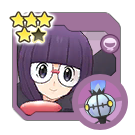
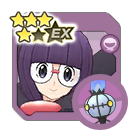
Add v2.37.0

Changed region(s): [[0.2963, 0.0889, 0.5926, 0.3556], [0.2963, 0.0889, 0.3259, 0.1185]]

diff --git a/js/syncpairs.js b/js/syncpairs.js
@@ -1415,6 +1415,42 @@ export const SYNCPAIRS = [
 			"Rock Lover"
 		],
 		"tags": [
+			"isWoman",
+			"Multiple Units"
+		]
+	},
+	{
+		"dexNumber": "019",
+		"trainerName": "Roxanne",
+		"trainerAlt": "Fall 2023",
+		"pokemonNumber": "0867",
+		"pokemonName": "Runerigus",
+		"pokemonGender": "♀",
+		"pokemonForm": [],
+		"pokemonType": "Ground",
+		"pokemonWeak": "Ghost",
+		"syncPairRole": "Tech",
+		"syncPairRoleEX": "Strike (Physical)",
+		"syncPairRarity": "5",
+		"releaseDate": "2023-10-14",
+		"syncPairAcquisition": "Seasonal Scout",
+		"syncPairRegion": "Hoenn",
+		"images": [
+			"Sync Pairs/0Y_SEASONALS/Roxanne_0867.png",
+			"Sync Pairs/0Y_SEASONALS/Roxanne_0867_EX.png"
+		],
+		"themes": [
+			"Ground",
+			"Hoenn",
+			"Gym Leader",
+			"Seasonal Outfit",
+			"Rock Lover"
+		],
+		"tags": [
+			"Fall",
+			"Buddy Move",
+			"Limited",
+			"Multiple Units",
 			"isWoman"
 		]
 	},
@@ -1716,6 +1752,41 @@ export const SYNCPAIRS = [
 			"Free Spirit"
 		],
 		"tags": [
+			"isWoman",
+			"Multiple Units"
+		]
+	},
+	{
+		"dexNumber": "026",
+		"trainerName": "Phoebe",
+		"trainerAlt": "Fall 2023",
+		"pokemonNumber": "0563",
+		"pokemonName": "Cofagrigus",
+		"pokemonGender": "♀",
+		"pokemonForm": [],
+		"pokemonType": "Ghost",
+		"pokemonWeak": "Dark",
+		"syncPairRole": "Support",
+		"syncPairRoleEX": "Tech",
+		"syncPairRarity": "5",
+		"releaseDate": "2023-10-12",
+		"syncPairAcquisition": "Seasonal Scout",
+		"syncPairRegion": "Hoenn",
+		"images": [
+			"Sync Pairs/0Y_SEASONALS/Phoebe_0563.png",
+			"Sync Pairs/0Y_SEASONALS/Phoebe_0563_EX.png"
+		],
+		"themes": [
+			"Ghost",
+			"Hoenn",
+			"Elite Four",
+			"Seasonal Outfit",
+			"Supernatural"
+		],
+		"tags": [
+			"Fall",
+			"Limited",
+			"Multiple Units",
 			"isWoman"
 		]
 	},
@@ -1780,6 +1851,40 @@ export const SYNCPAIRS = [
 			"Knowledgeable"
 		],
 		"tags": [
+			"isMan",
+			"Multiple Units"
+		]
+	},
+	{
+		"dexNumber": "028",
+		"trainerName": "Noland",
+		"trainerAlt": "",
+		"pokemonNumber": "0291",
+		"pokemonName": "Ninjask",
+		"pokemonGender": "♂",
+		"pokemonForm": [],
+		"pokemonType": "Bug",
+		"pokemonWeak": "Electric",
+		"syncPairRole": "Sprint",
+		"syncPairRoleEX": "Strike",
+		"syncPairRarity": "5",
+		"releaseDate": "2023-10-07",
+		"syncPairAcquisition": "Variety Scout",
+		"syncPairRegion": "Hoenn",
+		"images": [
+			"Sync Pairs/0C_HOENN/Noland_0291.png",
+			"Sync Pairs/0C_HOENN/Noland_0291_EX.png"
+		],
+		"themes": [
+			"Bug",
+			"Hoenn",
+			"Battle Facility Foe",
+			"Knowledgeable"
+		],
+		"tags": [
+			"Buddy Move",
+			"Limited",
+			"Multiple Units",
 			"isMan"
 		]
 	},
@@ -2118,7 +2223,42 @@ export const SYNCPAIRS = [
 			"Gadgeteer"
 		],
 		"tags": [
-			"isMan"
+			"isMan",
+			"Multiple Units"
+		]
+	},
+	{
+		"dexNumber": "036",
+		"trainerName": "Thorton",
+		"trainerAlt": "",
+		"pokemonNumber": "0462",
+		"pokemonName": "Magnezone",
+		"pokemonGender": "",
+		"pokemonForm": [],
+		"pokemonType": "Steel",
+		"pokemonWeak": "Fighting",
+		"syncPairRole": "Field",
+		"syncPairRoleEX": "Support",
+		"syncPairRarity": "5",
+		"releaseDate": "2023-10-05",
+		"syncPairAcquisition": "Variety Scout",
+		"syncPairRegion": "Sinnoh",
+		"images": [
+			"Sync Pairs/0D_SINNOH/Thorton_0462.png",
+			"Sync Pairs/0D_SINNOH/Thorton_0462_EX.png"
+		],
+		"themes": [
+			"Steel",
+			"Sinnoh",
+			"Battle Facility Foe",
+			"Knowledgeable",
+			"Gadgeteer"
+		],
+		"tags": [
+			"Limited",
+			"Multiple Units",
+			"isMan",
+			"Wish Zone"
 		]
 	},
 	{
@@ -2678,7 +2818,8 @@ export const SYNCPAIRS = [
 		"syncPairRegion": "Unova",
 		"images": [
 			"Sync Pairs/0E_UNOVA/0E_UNOVA_0C-02_Shauntal.png",
-			"Sync Pairs/5Star/0E_UNOVA_0C-02_Shauntal_5Star.png"
+			"Sync Pairs/5Star/0E_UNOVA_0C-02_Shauntal_5Star.png",
+			"Sync Pairs/0E_UNOVA/0E_UNOVA_0C-02_Shauntal_EX.png",
 		],
 		"themes": [
 			"Ghost",
@@ -4046,6 +4187,7 @@ export const SYNCPAIRS = [
 		],
 		"tags": [
 			"Multiple Units",
+			"Multiple Pokemon",
 			"isMan",
 			"Starter"
 		]
@@ -4549,7 +4691,7 @@ export const SYNCPAIRS = [
 		"pokemonType": "Dark",
 		"pokemonWeak": "Bug",
 		"syncPairRole": "Support",
-		"syncPairRoleEX": "",
+		"syncPairRoleEX": "Tech",
 		"syncPairRarity": "5",
 		"releaseDate": "2022-12-02",
 		"syncPairAcquisition": "Master Fair Scout",
@@ -4878,6 +5020,37 @@ export const SYNCPAIRS = [
 			"Multiple Units",
 			"isMan",
 			"Wish Zone"
+		]
+	},
+	{
+		"dexNumber": "074",
+		"trainerName": "Giovanni",
+		"trainerAlt": "",
+		"pokemonNumber": "0033",
+		"pokemonName": "Nidorino",
+		"pokemonGender": "♂",
+		"pokemonForm": [],
+		"pokemonType": "Poison",
+		"pokemonWeak": "Ground",
+		"syncPairRole": "Support",
+		"syncPairRoleEX": "",
+		"syncPairRarity": "4",
+		"releaseDate": "2023-10-01",
+		"syncPairAcquisition": "Trainer Lodge Exchange",
+		"syncPairRegion": "Kanto",
+		"images": [
+			"Sync Pairs/0A_KANTO/Giovanni_0033.png",
+			"Sync Pairs/5Star/Giovanni_0033_5Star.png",
+			"Sync Pairs/0A_KANTO/Giovanni_0033_EX.png"
+		],
+		"themes": [
+			"Poison",
+			"Kanto",
+			"Villain"
+		],
+		"tags": [
+			"Multiple Units",
+			"isMan"
 		]
 	},
 	{
@@ -6230,7 +6403,9 @@ export const SYNCPAIRS = [
 		],
 		"tags": [
 			"isMan",
-			"Multiple Units"
+			"Multiple Units",
+			"Grid3",
+			"GridExpansion"
 		]
 	},
 	{
@@ -9205,6 +9380,7 @@ export const SYNCPAIRS = [
 		],
 		"tags": [
 			"isWoman",
+			"Multiple Pokemon",
 			"Starter"
 		]
 	},
@@ -11907,6 +12083,113 @@ export const SYNCPAIRS = [
 			"Limited",
 			"isWoman"
 		]
+	},
+	{
+		"dexNumber": "183",
+		"trainerName": "Akari",
+		"trainerAlt": "",
+		"pokemonNumber": "0503",
+		"pokemonName": "Samurott",
+		"pokemonGender": "♂",
+		"pokemonForm": [
+			"Regional Form"
+		],
+		"pokemonType": "Dark",
+		"pokemonWeak": "Fairy",
+		"syncPairRole": "Field",
+		"syncPairRoleEX": "Strike (Physical)",
+		"syncPairRarity": "5",
+		"releaseDate": "2023-09-29",
+		"syncPairAcquisition": "Poké Fair Scout",
+		"syncPairRegion": "Sinnoh",
+		"images": [
+			"Sync Pairs/0I_HISUI/Akari_0503.png",
+			"Sync Pairs/0I_HISUI/Akari_0503_EX.png"
+		],
+		"themes": [
+			"Dark",
+			"Sinnoh",
+			"Main Character",
+			"Scarf"
+		],
+		"tags": [
+			"Starter",
+			"Grid5",
+			"Buddy Move",
+			"Limited",
+			"Wish Zone",
+			"Multiple Pokemon",
+			"isWoman",
+			"Hisui"
+		]
+	},
+	{
+		"dexNumber": "184",
+		"trainerName": "Rei",
+		"trainerAlt": "",
+		"pokemonNumber": "0724",
+		"pokemonName": "Decidueye",
+		"pokemonGender": "♂",
+		"pokemonForm": [
+			"Regional Form"
+		],
+		"pokemonType": "Fighting",
+		"pokemonWeak": "Flying",
+		"syncPairRole": "Sprint",
+		"syncPairRoleEX": "Strike (Physical)",
+		"syncPairRarity": "5",
+		"releaseDate": "2023-10-01",
+		"syncPairAcquisition": "Poké Fair Scout",
+		"syncPairRegion": "Sinnoh",
+		"images": [
+			"Sync Pairs/0I_HISUI/Rei_0724.png",
+			"Sync Pairs/0I_HISUI/Rei_0724_EX.png"
+		],
+		"themes": [
+			"Fighting",
+			"Sinnoh",
+			"Main Character",
+			"Scarf"
+		],
+		"tags": [
+			"Starter",
+			"Grid5",
+			"Buddy Move",
+			"Limited",
+			"Multiple Pokemon",
+			"isMan",
+			"Hisui"
+		]
+	},
+	{
+		"dexNumber": "185",
+		"trainerName": "Lenora",
+		"trainerAlt": "",
+		"pokemonNumber": "0505",
+		"pokemonName": "Watchog",
+		"pokemonGender": "♀",
+		"pokemonForm": [],
+		"pokemonType": "Normal",
+		"pokemonWeak": "Fighting",
+		"syncPairRole": "Support",
+		"syncPairRoleEX": "Tech",
+		"syncPairRarity": "5",
+		"releaseDate": "2023-10-16",
+		"syncPairAcquisition": "Spotlight Scout / General Pool",
+		"syncPairRegion": "Unova",
+		"images": [
+			"Sync Pairs/0E_UNOVA/Lenora_0505.png",
+			"Sync Pairs/0E_UNOVA/Lenora_0505_EX.png"
+		],
+		"themes": [
+			"Normal",
+			"Unova",
+			"Knowledgeable",
+			"Rock Lover"
+		],
+		"tags": [
+			"isWoman"
+		]
 	}
 ]
 
@@ -11965,4 +12248,4 @@ const P = {
 }
 
 
-export const VERSION = "v2.36.0";
+export const VERSION = "v2.37.0";

diff --git a/js/news.js b/js/news.js
@@ -1,5 +1,9 @@
 export const NEWS = [
 	{
+		"date": "2023-09-27",
+		"info" : "Add v2.37.0"
+	},
+	{
 		"date": "2023-09-06",
 		"info" : "Add sort option : acquisition "
 	},
